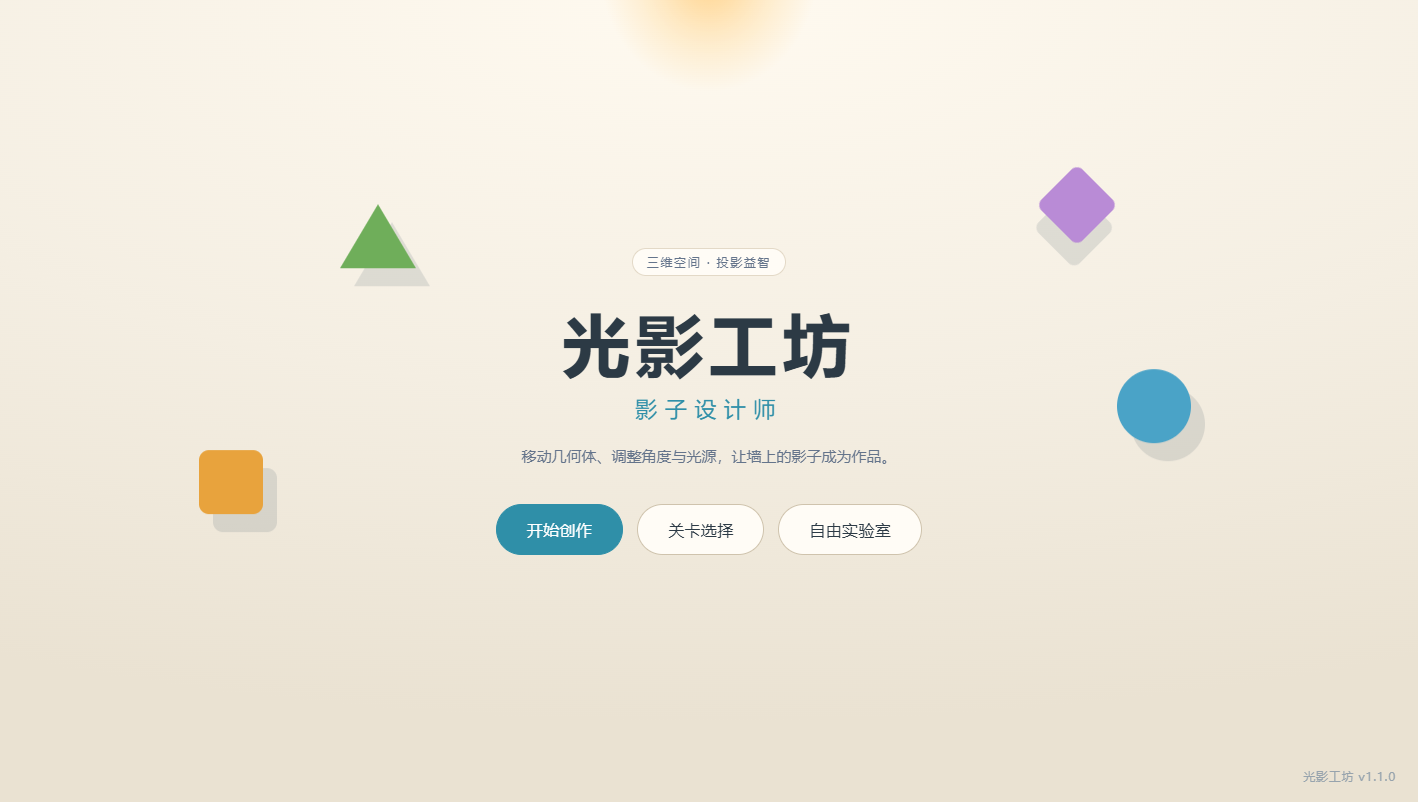
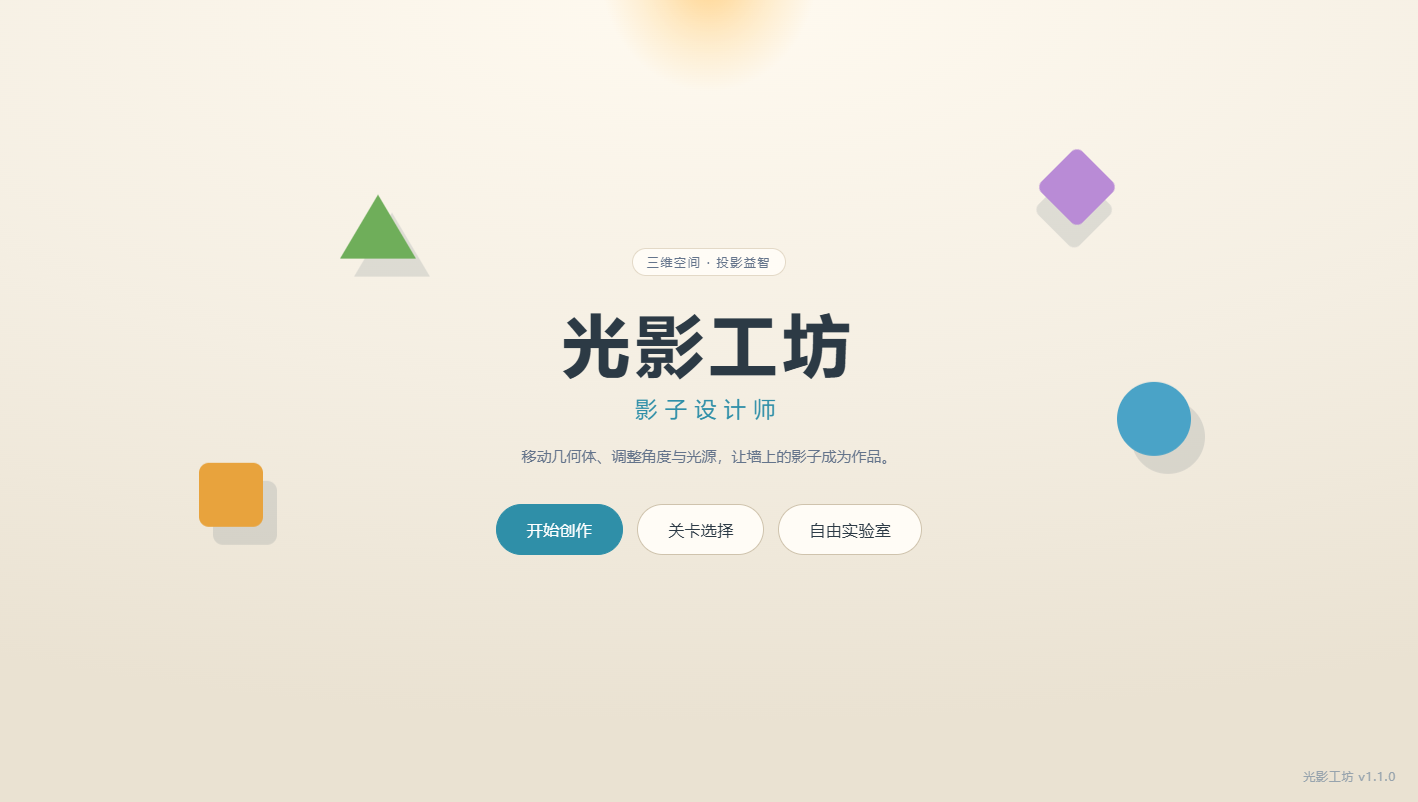
docs: 更新线上站点实拍截图与截图清单
- docs/shots 更新为 GitHub Pages 线上站点实拍（含视角预设、自由实验室）
- README 截图清单补充 03b-view-front / 09-lab / 10-lab-view / 11-lab-reset，共 16 张
- 记录线上复测结果：51 / 51 项通过

diff --git a/README.md b/README.md
@@ -306,5 +306,5 @@ src/
 - 完整源代码（`src/`、`scripts/`）
 - 本 `README.md`
 - 可直接部署的静态构建产物 `dist/`（`npm run build` 生成）
-- 核心功能截图 `docs/shots/`（15 张，含视角与自由实验室）
+- 核心功能截图 `docs/shots/`（16 张，含视角与自由实验室；均为 GitHub Pages 线上站点实拍）
 - 关卡可解性验证脚本 `scripts/verify-levels.ts` 与端到端测试 `scripts/e2e-check.mjs`
